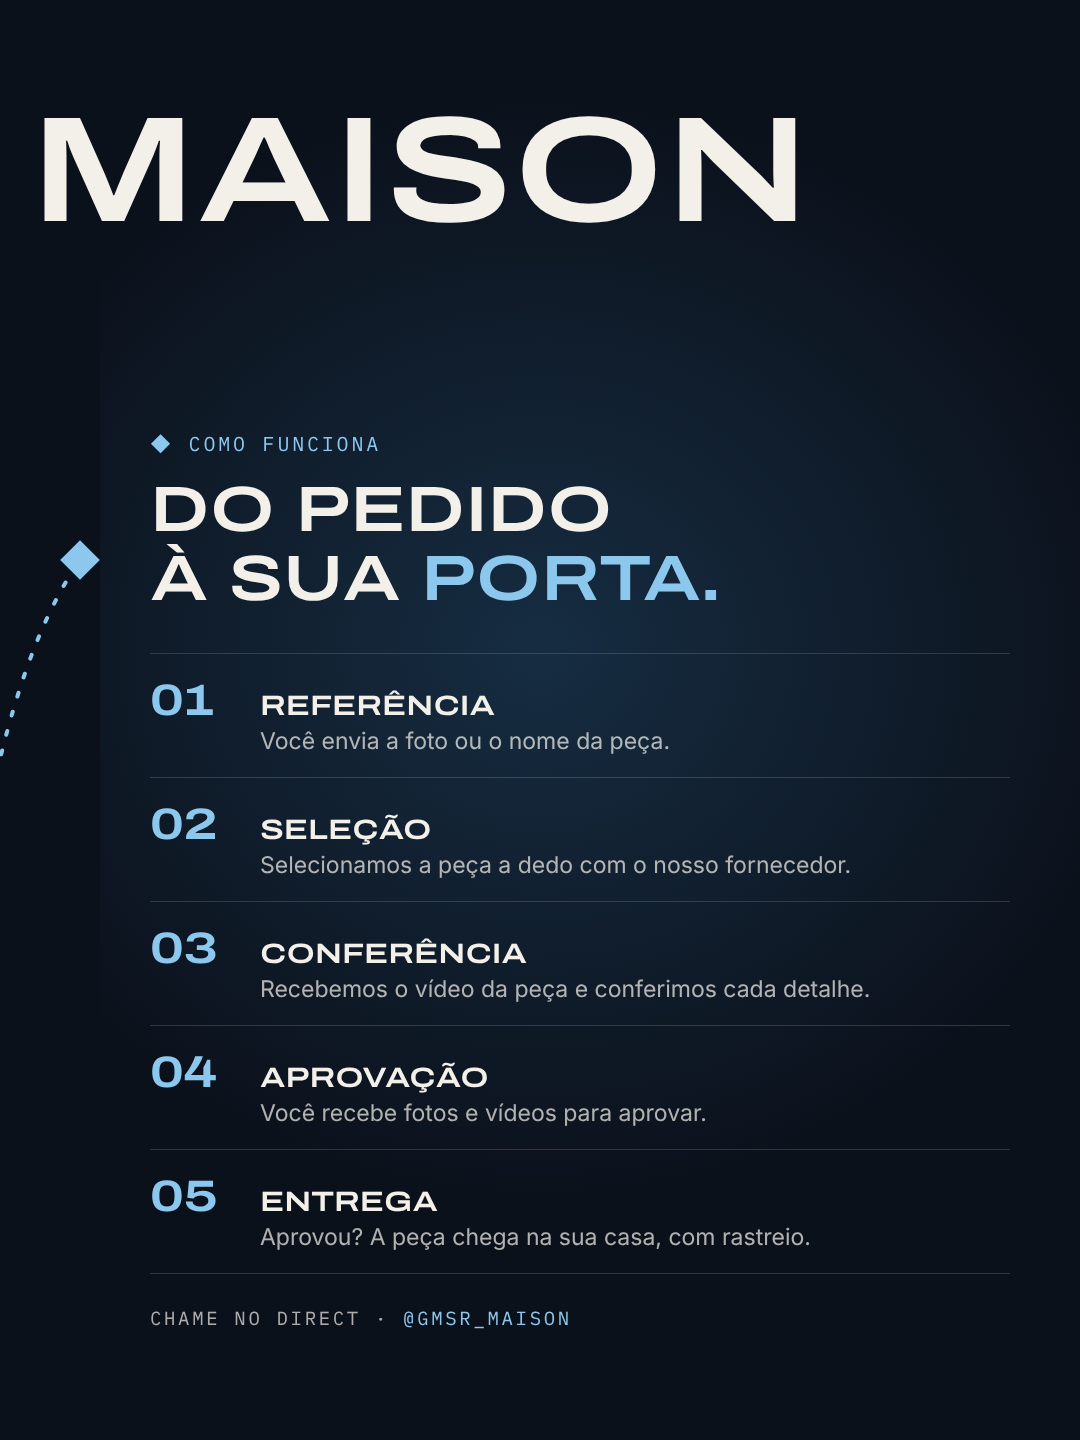
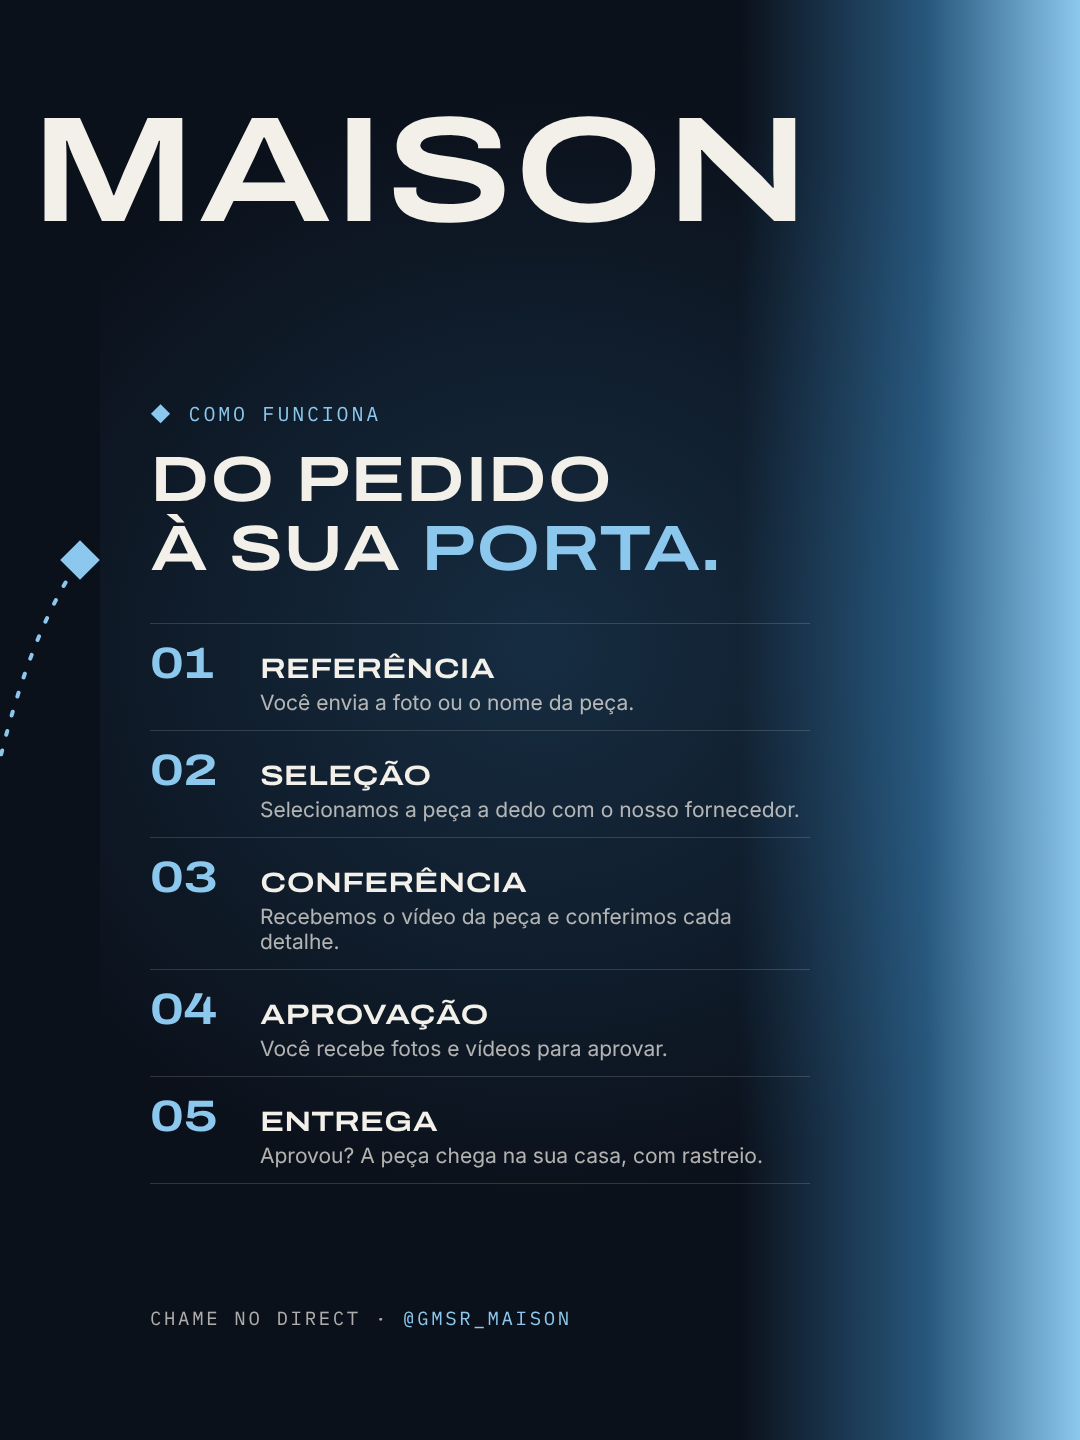
Degradê azul na borda direita da grade e no final do carrossel
Claude-Session: https://claude.ai/code/session_018Rxm36svjxPgU3W8TLCnbb

diff --git a/posts-grade/03-carrossel-processo/slides.html b/posts-grade/03-carrossel-processo/slides.html
@@ -91,6 +91,11 @@
   .refimg img{width:100%;display:block}
   .pano .photo{background:radial-gradient(55% 45% at 50% 45%,rgba(62,143,203,.32),transparent 70%),#0B111B}
   .pano .ask{position:absolute;left:0;width:1080px;top:170px;text-align:center;font-family:Wide;font-stretch:125%;font-weight:800;font-size:1000px;line-height:1;color:transparent;-webkit-text-stroke:3px rgba(140,200,238,.45)}
+  .pano .edge{position:absolute;top:0;bottom:0;right:0;width:340px;z-index:1;background:linear-gradient(90deg,rgba(62,143,203,0),rgba(62,143,203,.55) 55%,#8CC8EE)}
+  .pano .steps{width:660px !important;top:400px !important}
+  .pano .row{padding:15px 0 !important}
+  .pano .row p{font-size:21px !important}
+  .c3.edgy:after{content:"";position:absolute;top:0;bottom:0;right:0;width:340px;z-index:1;background:linear-gradient(90deg,rgba(62,143,203,0),rgba(62,143,203,.55) 55%,#8CC8EE)}
 </style>
 </head>
 <body>
@@ -105,6 +110,7 @@
       <rect x="1146" y="546" width="28" height="28" fill="#8CC8EE" transform="rotate(45 1160 560)"/>
     </svg>
 
+    <div class="edge"></div>
     <div class="w word a">GMSR</div>
     <div class="w word b">MAISON</div>
 
@@ -181,7 +187,7 @@
   <div class="foot mono"><span>Passo 4 de 5</span><span>Deslize →</span></div></div></section>
 
 <!-- 06 · FINAL -->
-<section class="slide tile"><div class="c3" style="background:radial-gradient(60% 45% at 50% 45%,rgba(62,143,203,.3),transparent 70%),#0B111B"><div class="top"><img src="../../assets/logo/gmsr-mono-branco.png" alt=""><span class="mono counter"></span></div>
+<section class="slide tile"><div class="c3 edgy" style="background:radial-gradient(60% 45% at 50% 45%,rgba(62,143,203,.3),transparent 70%),#0B111B"><div class="top"><img src="../../assets/logo/gmsr-mono-branco.png" alt=""><span class="mono counter"></span></div>
   <div style="position:absolute;left:80px;right:80px;top:380px;text-align:center;z-index:3">
     <img src="../../assets/logo/gmsr-mono-branco.png" style="width:230px" alt="">
     <div class="w" style="font-weight:600;font-size:78px;margin-top:60px;line-height:1.08">Mande a sua<br><em>referência.</em></div>

diff --git a/posts-grade/04-carrossel-dono/slides.html b/posts-grade/04-carrossel-dono/slides.html
@@ -110,6 +110,11 @@
   .side img{width:100%;height:100%;object-fit:cover;object-position:50% 35%}
   .pano .photo{background:radial-gradient(55% 45% at 50% 45%,rgba(62,143,203,.32),transparent 70%),#0B111B}
   .pano .ask{position:absolute;left:0;width:1080px;top:170px;text-align:center;font-family:Wide;font-stretch:125%;font-weight:800;font-size:1000px;line-height:1;color:transparent;-webkit-text-stroke:3px rgba(140,200,238,.45)}
+  .pano .edge{position:absolute;top:0;bottom:0;right:0;width:340px;z-index:1;background:linear-gradient(90deg,rgba(62,143,203,0),rgba(62,143,203,.55) 55%,#8CC8EE)}
+  .pano .steps{width:660px !important;top:400px !important}
+  .pano .row{padding:15px 0 !important}
+  .pano .row p{font-size:21px !important}
+  .c3.edgy:after{content:"";position:absolute;top:0;bottom:0;right:0;width:340px;z-index:1;background:linear-gradient(90deg,rgba(62,143,203,0),rgba(62,143,203,.55) 55%,#8CC8EE)}
 </style>
 </head>
 <body>
@@ -124,6 +129,7 @@
       <rect x="1146" y="546" width="28" height="28" fill="#8CC8EE" transform="rotate(45 1160 560)"/>
     </svg>
 
+    <div class="edge"></div>
     <div class="w word a">GMSR</div>
     <div class="w word b">MAISON</div>
 

diff --git a/posts-grade/02-grade-mapa-processo/slides.html b/posts-grade/02-grade-mapa-processo/slides.html
@@ -54,6 +54,11 @@
   .pano .cta em{font-style:normal;color:var(--sky)}
   .pano .photo{background:radial-gradient(55% 45% at 50% 45%,rgba(62,143,203,.32),transparent 70%),#0B111B}
   .pano .ask{position:absolute;left:0;width:1080px;top:170px;text-align:center;font-family:Wide;font-stretch:125%;font-weight:800;font-size:1000px;line-height:1;color:transparent;-webkit-text-stroke:3px rgba(140,200,238,.45)}
+  .pano .edge{position:absolute;top:0;bottom:0;right:0;width:340px;z-index:1;background:linear-gradient(90deg,rgba(62,143,203,0),rgba(62,143,203,.55) 55%,#8CC8EE)}
+  .pano .steps{width:660px !important;top:400px !important}
+  .pano .row{padding:15px 0 !important}
+  .pano .row p{font-size:21px !important}
+  .c3.edgy:after{content:"";position:absolute;top:0;bottom:0;right:0;width:340px;z-index:1;background:linear-gradient(90deg,rgba(62,143,203,0),rgba(62,143,203,.55) 55%,#8CC8EE)}
 </style>
 </head>
 <body>
@@ -83,6 +88,7 @@
       <rect x="1146" y="546" width="28" height="28" fill="#8CC8EE" transform="rotate(45 1160 560)"/>
     </svg>
 
+    <div class="edge"></div>
     <div class="w word a">GMSR</div>
     <div class="w word b">MAISON</div>
 
